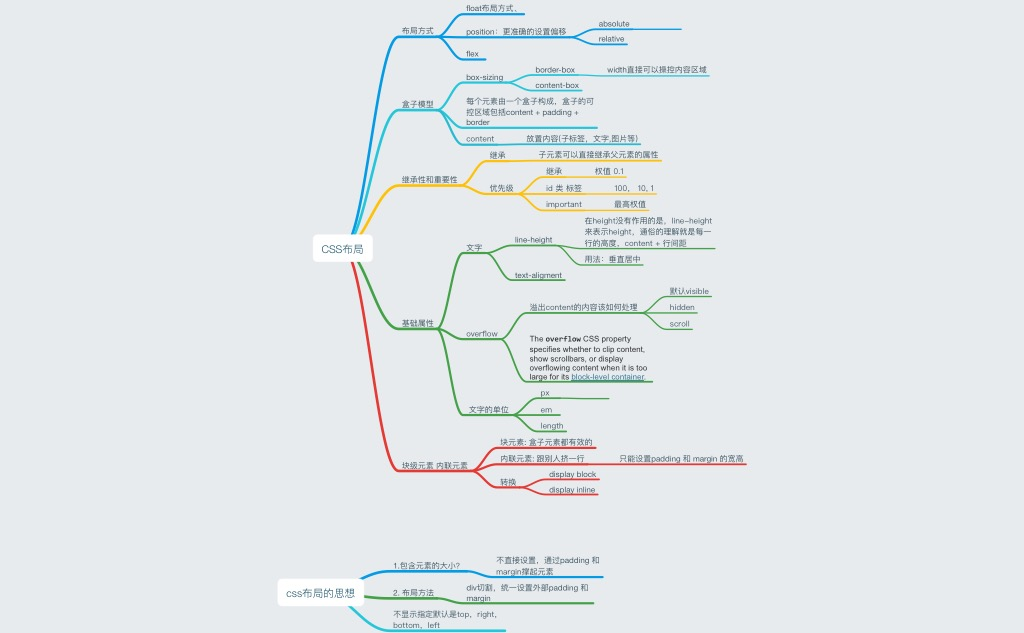
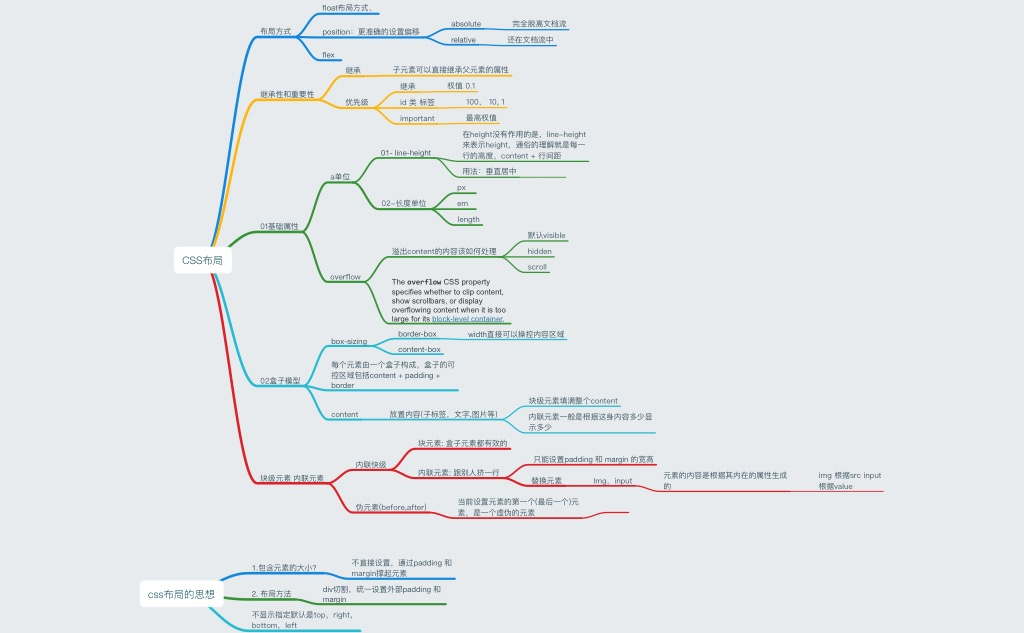
add line-height

Changed region(s): [[0.1875, 0.0, 0.875, 0.8404], [0.1562, 0.8705, 0.5938, 1.0]]

diff --git a/布局要求/实现一个正方形.html b/布局要求/实现一个正方形.html
@@ -1,0 +1,70 @@
+<!DOCTYPE html>
+<html>
+<head>
+	<title></title>
+	<style>
+
+	/*.attr {
+    width: 80%;
+    height: 0;
+    padding-bottom: 80%;
+    background-color: #008b57;
+		position: relative;
+	}*/
+
+/*原来 padding-top bototm 是根据父类宽度来计算的*/
+	.attr {
+		position: relative;
+ 		width: 80%;
+		background: blue;
+	}
+
+	.attr:before {
+    content: "";
+    display: block;
+    padding-top: 100%;
+	}
+
+
+	img{
+		position: absolute;
+		top: 0px;
+		left: 0px;
+		width: 100%;
+	}
+
+	.second{
+		background: blue;
+		width: 600px;
+		height: 100px;
+		border: 10px solid black;
+		box-sizing: border-box;
+
+	}
+
+	.second-2{
+		background: red;
+	}
+
+	span{
+		background: green;
+	}
+
+	</style>
+</head>
+<body>
+
+    <div class='attr'>
+				 <img src="http://img0.imgtn.bdimg.com/it/u=1057519802,4245354110&fm=27&gp=0.jpg"/>
+		</div>
+
+		<div class="second">
+			<div class="second-2">
+
+			</div>
+
+		</div>
+
+
+</body>
+</html>

diff --git a/快级-内联-替换元素/伪元素.html b/快级-内联-替换元素/伪元素.html
@@ -1,0 +1,49 @@
+<!DOCTYPE html>
+<html>
+<head>
+	<title></title>
+	<style>
+	.box:before {
+		content: "在干嘛呢";
+		display: block;;
+		background: blue;
+	}
+
+	.box::after{
+		content: "我也不知道"
+	}
+
+	.test-clearfix{
+		background: black;
+	}
+	.test-clearfix:after {
+		content: '';
+		display: block;
+		clear-fix:both;
+	}
+
+	.first {
+		background: red;
+		float: left;;
+	}
+
+	.second{
+		background: blue;
+		float: left;
+	}
+
+	</style>
+</head>
+<body>
+	<div class=" box">
+		  不知道啊
+	</div>
+
+	<div class="test-clearfix">
+		<div class="first">aa</div>
+		<div class="second">bb</div>
+	</div>
+
+
+</body>
+</html>

diff --git a/01基础属性/01单位/01line-height/line-height.html b/01基础属性/01单位/01line-height/line-height.html
@@ -1,0 +1,22 @@
+<!DOCTYPE html>
+<html>
+    <head>
+        <title>Test</title>
+        <style type="text/css" >
+				body {
+					font-size: 30px;
+				}
+				.test {
+					background: red;
+					line-height: 200px;
+					height: 200px;
+				}
+        </style>
+    </head>
+    <body>
+        <div class="test">
+      			11222
+        </div>
+
+    </body>
+<html>

diff --git a/快级-内联-替换元素/布局.html b/快级-内联-替换元素/布局.html
@@ -1,0 +1,16 @@
+<!DOCTYPE html>
+<html>
+<head>
+	<title></title>
+	<style>
+	img {
+
+	}
+	</style>
+</head>
+<body>
+	<div class=" box">
+		    <img/>
+	</div>
+</body>
+</html>

diff --git a/01基础属性/01单位/01line-height/line-height.md b/01基础属性/01单位/01line-height/line-height.md
@@ -1,0 +1,18 @@
+## 是什么
+
+在height没有作用的是，line-height来表示height，通俗的理解就是每一行的高度，content + 行间距
+
+
+![](http://ohbzayk4i.bkt.clouddn.com/17-11-21/97494424.jpg)
+
+
+## 用法
+文字的垂直居中
+
+
+## line-height setting
+1px percentage ====> 子元素继承的是实际值
+1.5 ====> 1.5 x fontsize===> 子元素继承比率
+
+
+[[学习笔记] css中的line-height](https://segmentfault.com/a/1190000003038583)

diff --git a/布局要求/position.md b/布局要求/position.md
@@ -1,0 +1,16 @@
+
+## static
+默认的
+
+## absolute
+是否保留文档流位置:否，文档流里根本没有他的位置
+相对的元素：第一个非static元素
+
+
+## relateive
+是否保留文档流位置： 是，保留文档的位置，只是视觉上他发生了偏移
+相对元素：自己
+应用场景： 作为absolute的包含快
+
+## fixed
+相对元素： 浏览器窗口

diff --git a/快级-内联-替换元素/position.md b/快级-内联-替换元素/position.md
@@ -1,0 +1,16 @@
+
+## static
+默认的
+
+## absolute
+是否保留文档流位置:否，文档流里根本没有他的位置
+相对的元素：第一个非static元素
+
+
+## relateive
+是否保留文档流位置： 是，保留文档的位置，只是视觉上他发生了偏移
+相对元素：自己
+应用场景： 作为absolute的包含快
+
+## fixed
+相对元素： 浏览器窗口

diff --git a/line-height/css属性.md b/line-height/css属性.md
@@ -1,0 +1,2 @@
+
+### 1123
